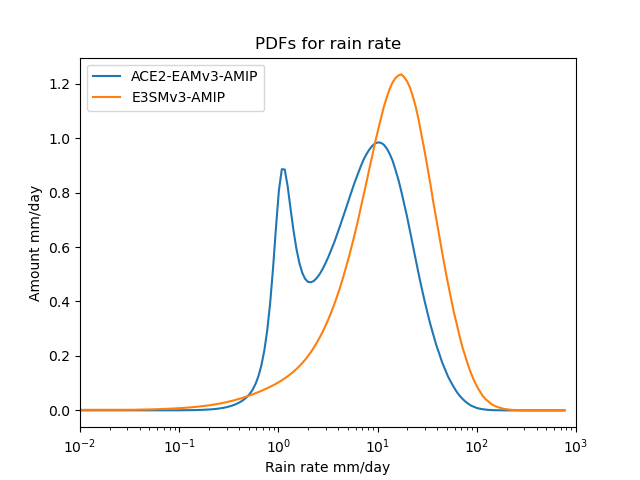
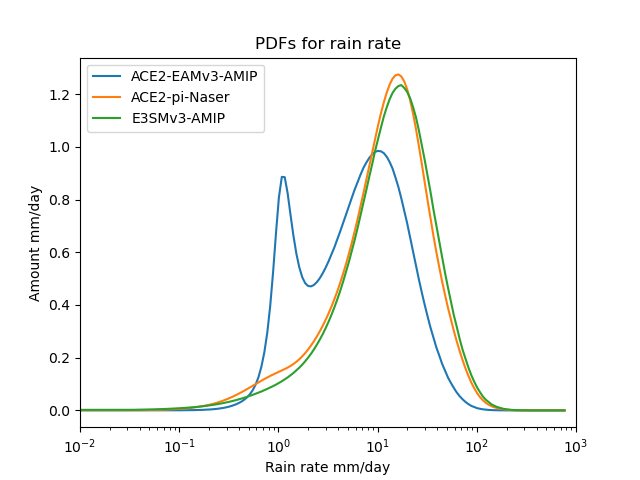
added global plot.

diff --git a/rainrate_amount_calculator/plot_rainrate.py b/rainrate_amount_calculator/plot_rainrate.py
@@ -84,4 +84,4 @@ plot_rainrate_pdfs('/pscratch/sd/w/wagmanbe/rainrate_compare/inf_test4/surface_p
                     'ACE2-EAMv3-AMIP',
                     'ACE2-pi-Naser',
                     'E3SMv3-AMIP',
-                    tropics_only=True)
+                    tropics_only=False)
